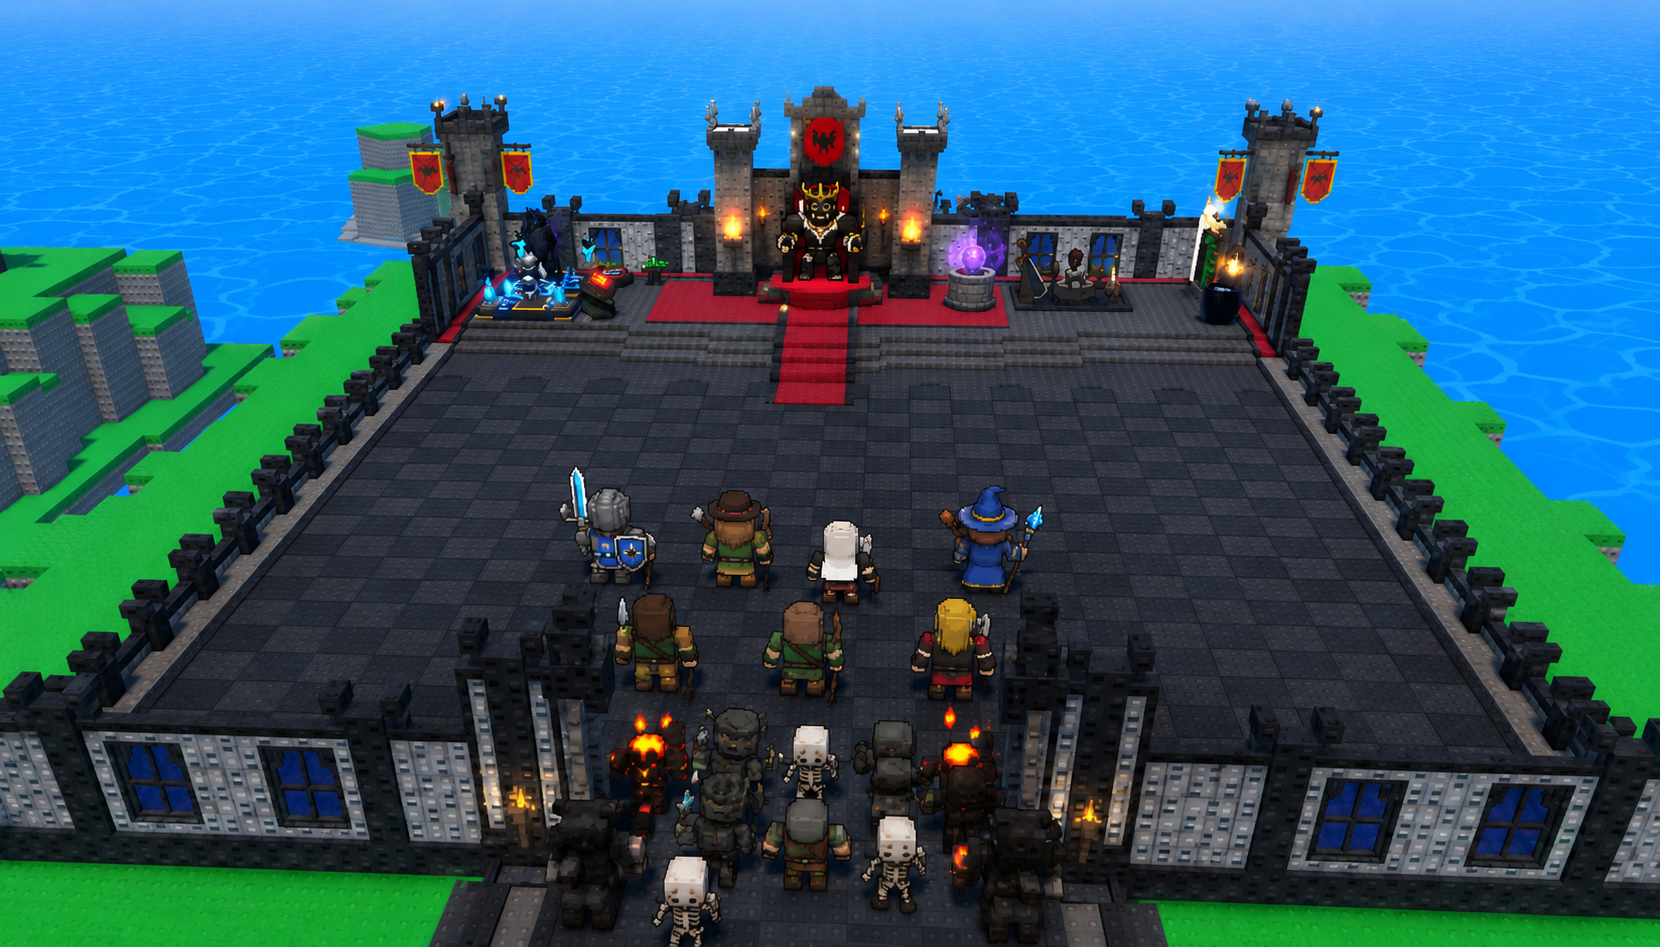
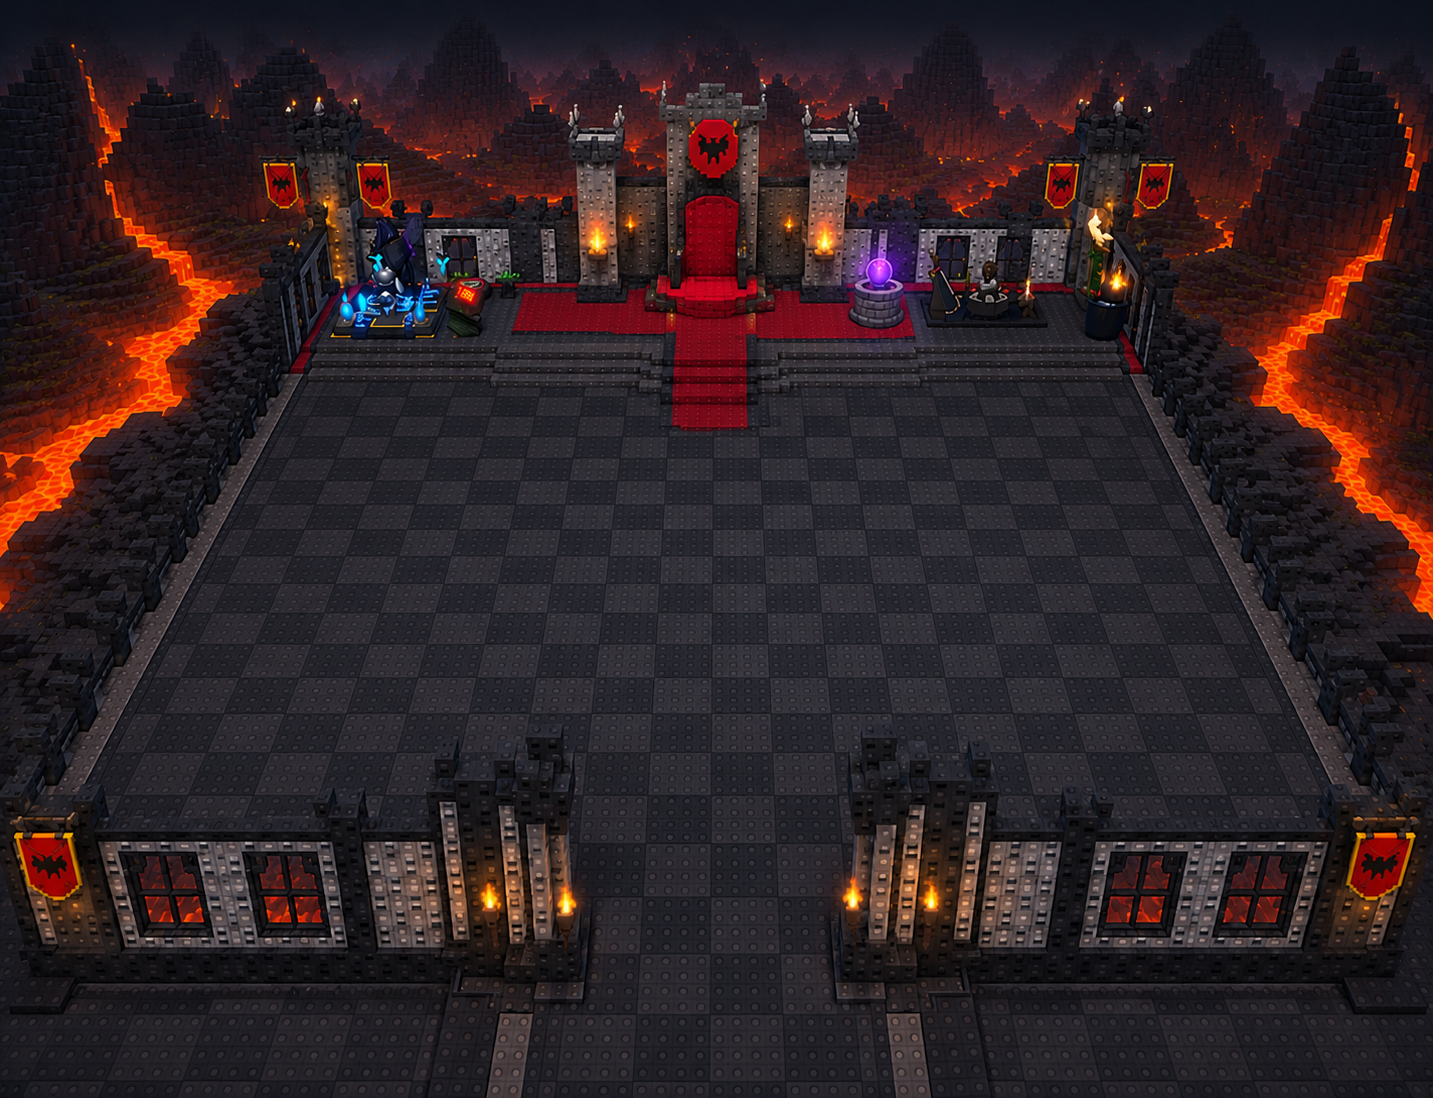
Replace arena with lava castle map (#10)

diff --git a/components/DemonGame.jsx b/components/DemonGame.jsx
@@ -640,8 +640,21 @@ export default function DemonGame() {
 
       ctx.save();
       if (s.shake > 0) ctx.translate((Math.random() - .5) * s.shake, (Math.random() - .5) * s.shake);
-      if (img.complete) ctx.drawImage(img, 0, 0, W, H);
-      else { ctx.fillStyle = "#142029"; ctx.fillRect(0, 0, W, H); }
+      if (img.complete && img.naturalWidth) {
+        const sourceHeight = img.naturalWidth * H / W;
+        const sourceY = Math.min(
+          img.naturalHeight - sourceHeight,
+          img.naturalHeight * .07,
+        );
+        ctx.drawImage(
+          img,
+          0, sourceY, img.naturalWidth, sourceHeight,
+          0, 0, W, H,
+        );
+      } else {
+        ctx.fillStyle = "#142029";
+        ctx.fillRect(0, 0, W, H);
+      }
       const shade = ctx.createLinearGradient(0, 0, 0, H);
       shade.addColorStop(0, "rgba(4,2,9,.14)");
       shade.addColorStop(.32, "rgba(9,3,10,.28)");
